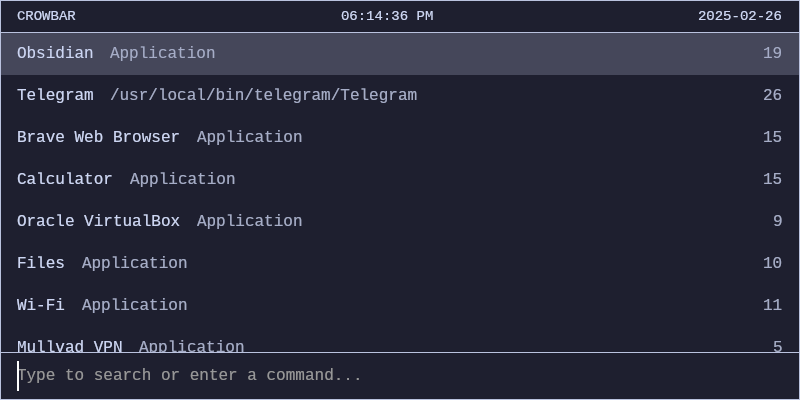
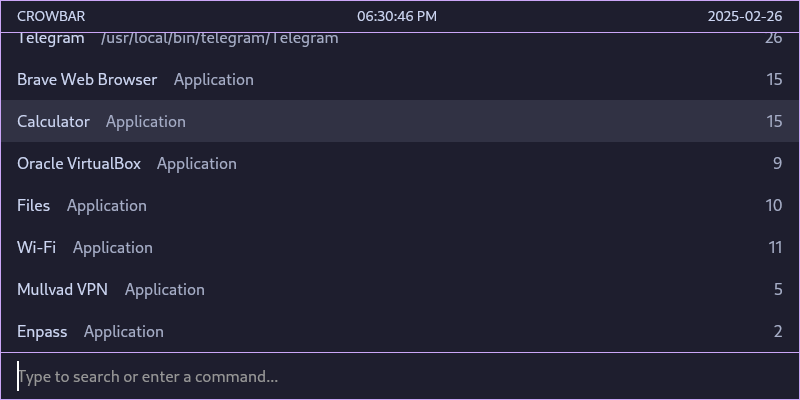
docs: add supported system config

diff --git a/README.md b/README.md
@@ -12,14 +12,18 @@
 > **Prototype**: Crowbar is currently a prototype. While it's functional, you
 > may encounter bugs, and features might change in the future.
 
-Created out of love for dmenu's simplicity, but built for Wayland systems where
-dmenu can be buggy.
+Tested on:
+
+- Ubuntu 24.04 with (Wayland, GNOME)
 
 Launch applications:
 ![Screenshot](./screenshot0.png)
 
 Query search engines:
 ![Screenshot](./screenshot1.png)
+
+Customize your launcher:
+![Screenshot](./screenshot2.png)
 
 ## Features
 
